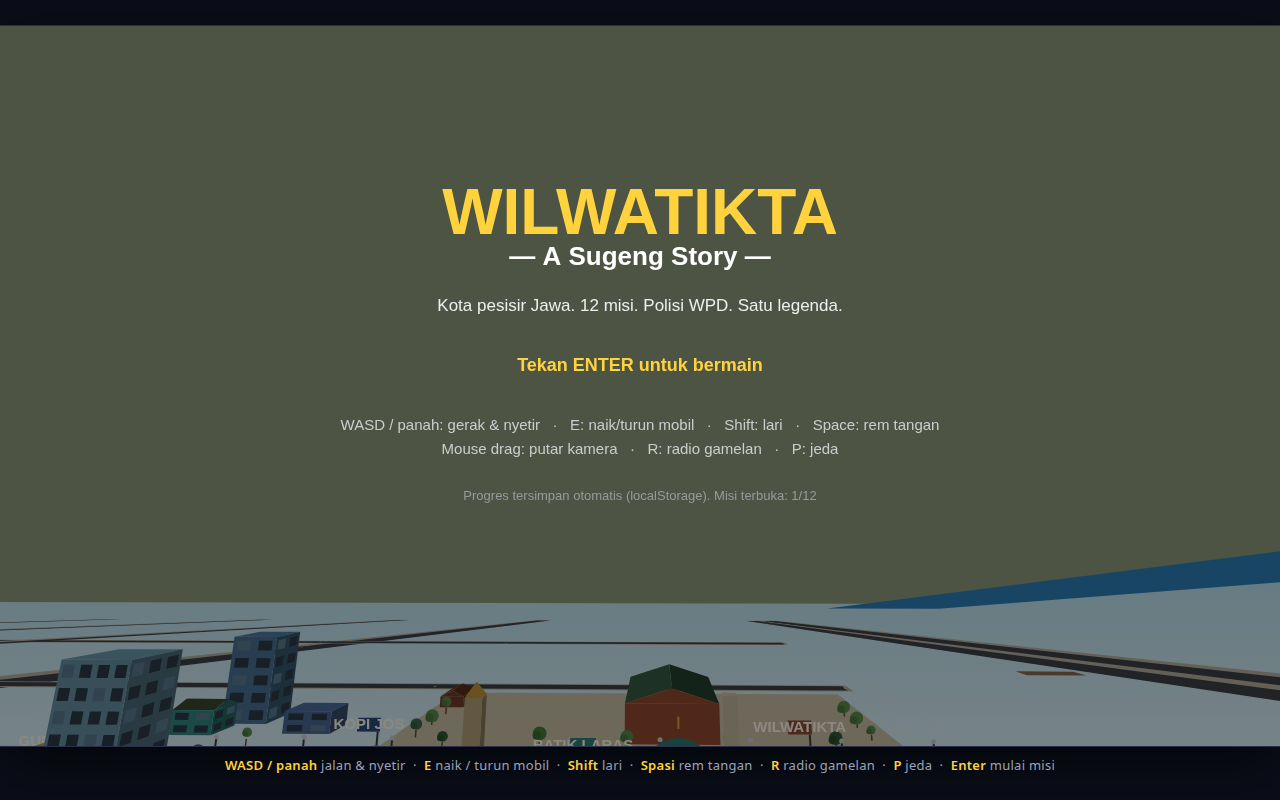
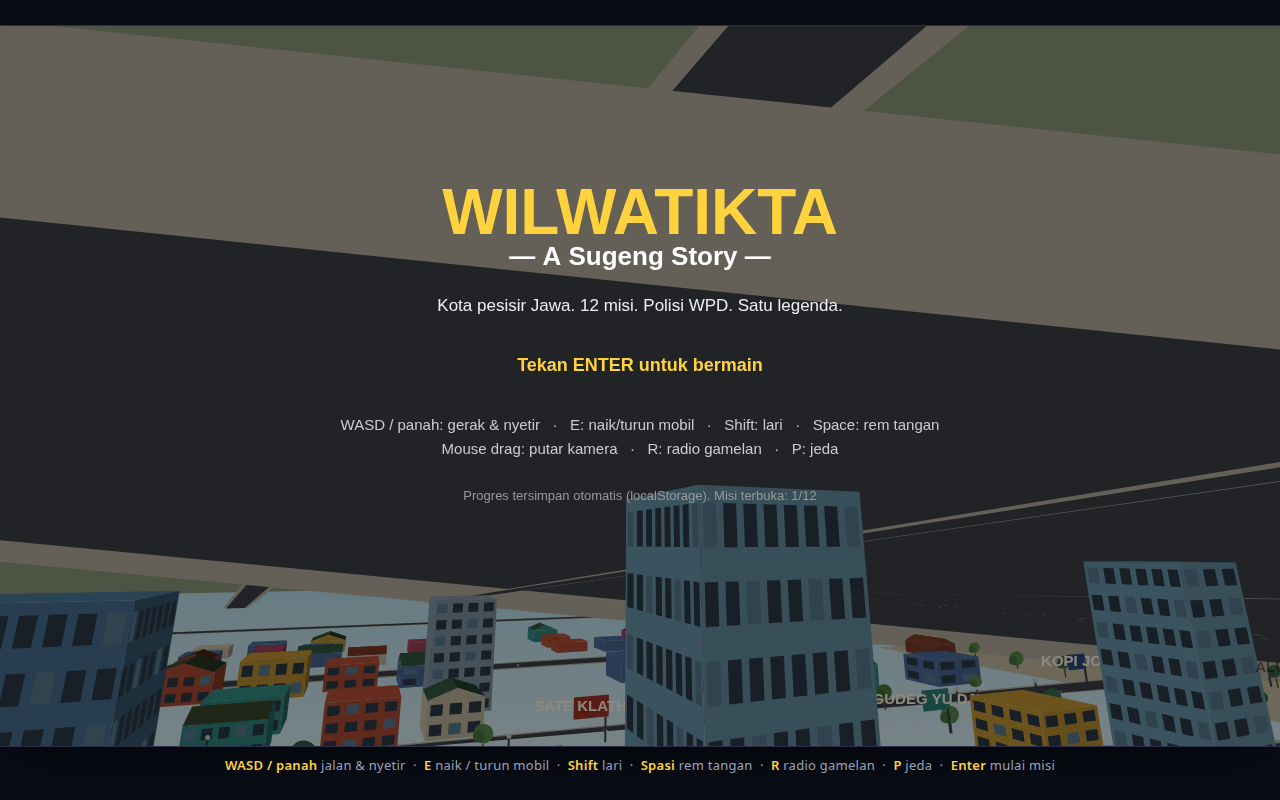
v22: title camera to dense centre + dusk chase + level mission shot (top-5 formula)

diff --git a/game/js/game.js b/game/js/game.js
@@ -638,7 +638,7 @@ function updateCamera(dt) {
   G.cam.pitch = G.camPitch;
   if (G.state === 'title') {
     const a = G.time * 0.05;
-    G.cam.x = Math.sin(a) * 170; G.cam.z = -315 + Math.cos(a) * 170; G.cam.y = 45; G.cam.yaw = Math.atan2(-G.cam.x, -315 - G.cam.z); G.cam.pitch = 0.5;
+    G.cam.x = Math.sin(a) * 200; G.cam.z = 20 + Math.cos(a) * 200; G.cam.y = 55; G.cam.yaw = Math.atan2(-G.cam.x, 20 - G.cam.z); G.cam.pitch = 0.25;
   }
 }
 
